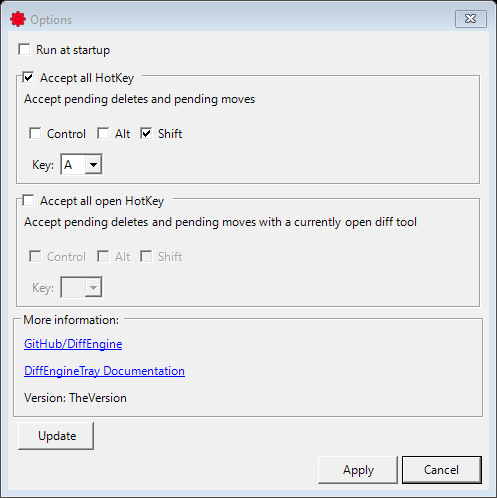
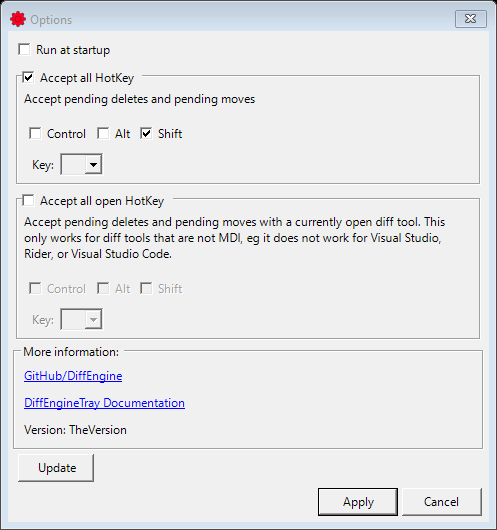
warning about non mdi

diff --git a/src/DiffEngineTray/Settings/OptionsForm.Designer.cs b/src/DiffEngineTray/Settings/OptionsForm.Designer.cs
@@ -152,7 +152,7 @@
             // 
             this.acceptOpenHotKey.AutoSize = true;
             this.acceptOpenHotKey.Dock = System.Windows.Forms.DockStyle.Top;
-            this.acceptOpenHotKey.Help = "Accept pending deletes and pending moves with a currently open diff tool";
+            this.acceptOpenHotKey.Help = "Accept pending deletes and pending moves with a currently open diff tool. This only works for diff tools that are not MDI, eg it does not work for Visual Studio, Rider, or Visual Studio Code.";
             this.acceptOpenHotKey.HotKey = null;
             this.acceptOpenHotKey.Label = "Accept all open HotKey";
             this.acceptOpenHotKey.Location = new System.Drawing.Point(5, 145);

diff --git a/src/DiffEngineTray/Settings/HotKeyControl.cs b/src/DiffEngineTray/Settings/HotKeyControl.cs
@@ -61,7 +61,7 @@ public partial class HotKeyControl :
     {
         base.OnSizeChanged(e);
         var padding = hotKey.Padding;
-        helpLabel.MaximumSize = new Size(hotKey.Width - padding.Left - padding.Right, 0);
+        helpLabel.MaximumSize = new Size(hotKey.Width - (padding.Left + padding.Right + 10), 0);
     }
 
     static IEnumerable<string> GetAlphabet()
